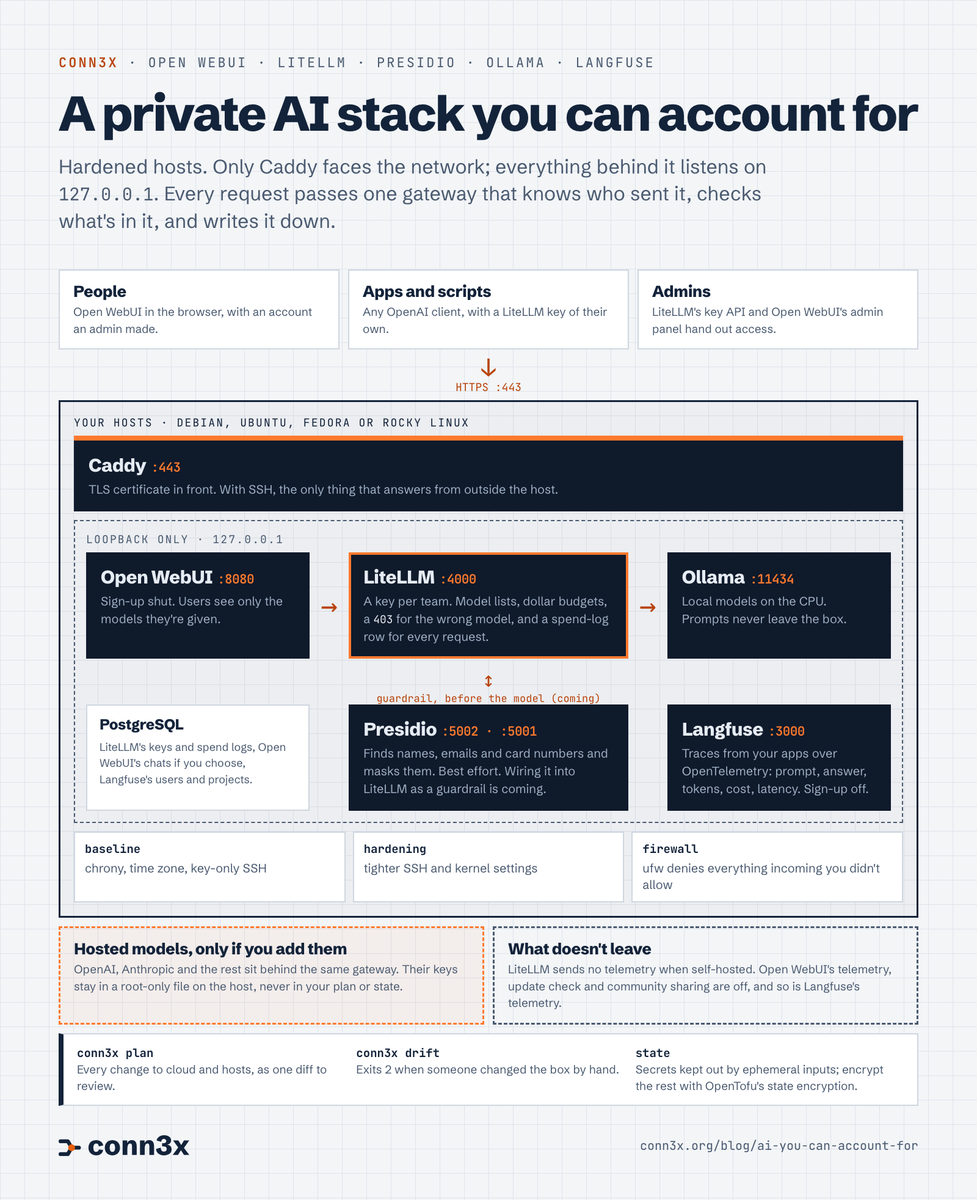
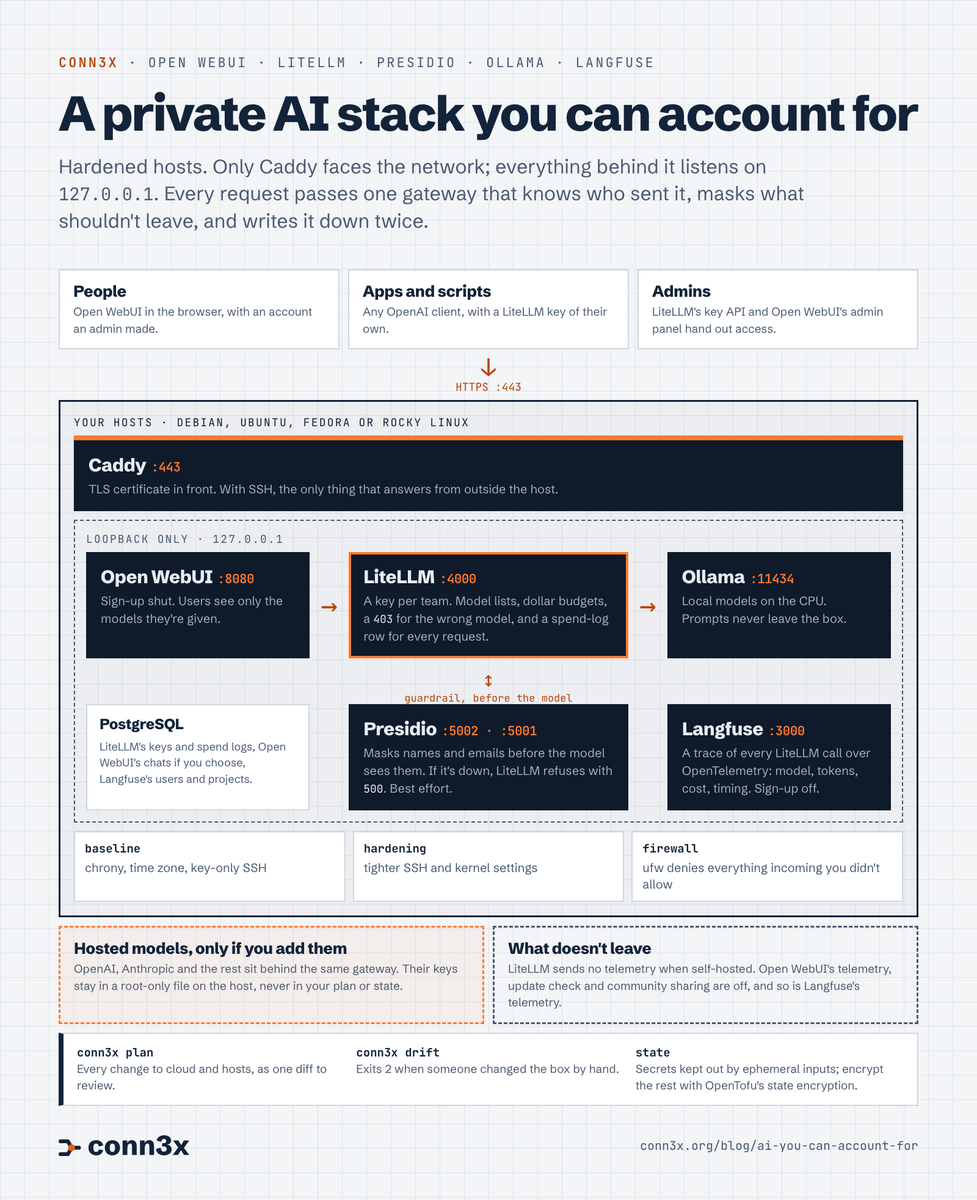
feat(blog): ship the Presidio guardrail and LiteLLM traces
circuit-litellm v0.2.0 adds guardrails and langfuse_url, both tested.
The series now describes them as shipped, exactly as far as the README
says: masking before the model and a 500 when Presidio is down, and a
trace per call in Langfuse with prompts redacted unless log_prompts is
on. post_call, output_parse_pii and BLOCK stay marked untested.

Examples pin circuit-litellm to v0.2.0, the Presidio and Langfuse posts
gain the README's guardrail and tracing examples, and the map, stack,
gateway, scrub and trace diagrams are re-rendered.

diff --git a/scripts/post-graphics/an-audit-trail-for-every-prompt/trace.html b/scripts/post-graphics/an-audit-trail-for-every-prompt/trace.html
@@ -32,10 +32,11 @@
 <div class="page">
   <span class="label"><b>CONN3X</b> · CIRCUIT-LANGFUSE</span>
   <h1>An audit trail for every prompt</h1>
-  <p class="lede">Langfuse 4 on one 4 GB host: the web server, a worker, ClickHouse for traces and MinIO for raw events, each a systemd service, all on loopback. Your apps send traces over OpenTelemetry.</p>
+  <p class="lede">Langfuse 4 on one 4 GB host: the web server, a worker, ClickHouse for traces and MinIO for raw events, each a systemd service, all on loopback. The LiteLLM gateway and your apps send traces over OpenTelemetry.</p>
 
   <div class="map">
     <div class="apps">
+      <div class="box"><span class="k">THE GATEWAY</span><h2 style="font-size: 26px;">LiteLLM</h2><p><code>langfuse_url</code>: a trace of every call. Prompts read <code>redacted-by-litellm</code> unless you keep them.</p></div>
       <div class="box"><span class="k">YOUR APPS</span><h2 style="font-size: 26px;">Langfuse SDKs</h2><p>Python or JavaScript, with the project's <code>pk-lf-</code> and <code>sk-lf-</code> keys.</p></div>
       <div class="box"><span class="k">YOUR PEOPLE</span><h2 style="font-size: 26px;">The web UI</h2><p>Through Caddy. Sign-up off; the owner invites everyone else.</p></div>
     </div>
@@ -71,13 +72,13 @@
   </div>
 
   <div class="note">
-    <div class="box"><span class="k">KNOW THIS</span><h2>It keeps the prompts</h2><p>That's the point of a trace, and it's also a store of everything anyone typed. Decide who can sign in.</p></div>
+    <div class="box"><span class="k">KNOW THIS</span><h2>It can keep the prompts</h2><p>That's the point of a trace, and it's also a store of everything anyone typed. Decide who can sign in.</p></div>
     <div class="box"><span class="k">KNOW THIS TOO</span><h2>minio/minio is archived</h2><p>Upstream stopped in April 2026. This runs Chainguard's AGPL fork, pinned by digest.</p></div>
   </div>
 
   <div class="key">
     <h3>Tested</h3>
-    <p>On 4 GB droplets with Ubuntu, Debian, Rocky Linux and Fedora: sign-up refused, a trace over OTLP readable within three seconds, a wrong secret key a <code>401</code>, and the trace still there after a reboot.</p>
+    <p>On 4 GB droplets with Ubuntu, Debian, Rocky Linux and Fedora: sign-up refused, a trace over OTLP readable within three seconds, a wrong secret key a <code>401</code>, the trace still there after a reboot. LiteLLM's calls arrived as generations within seconds.</p>
   </div>
   <div class="bottom">
     <img src="../../../apps/site/src/brand/logo.svg" alt="">

diff --git a/scripts/post-graphics/ai-you-can-account-for/stack.html b/scripts/post-graphics/ai-you-can-account-for/stack.html
@@ -39,7 +39,7 @@
 <div class="page">
   <span class="label"><b>CONN3X</b> · OPEN WEBUI · LITELLM · PRESIDIO · OLLAMA · LANGFUSE</span>
   <h1>A private AI stack you can account for</h1>
-  <p class="lede">Hardened hosts. Only Caddy faces the network; everything behind it listens on <code>127.0.0.1</code>. Every request passes one gateway that knows who sent it, checks what's in it, and writes it down.</p>
+  <p class="lede">Hardened hosts. Only Caddy faces the network; everything behind it listens on <code>127.0.0.1</code>. Every request passes one gateway that knows who sent it, masks what shouldn't leave, and writes it down twice.</p>
 
   <div class="users">
     <div class="box"><h2>People</h2><p>Open WebUI in the browser, with an account an admin made.</p></div>
@@ -62,14 +62,14 @@
         <div class="dark"><h3>Ollama<span>:11434</span></h3><p>Local models on the CPU. Prompts never leave the box.</p></div>
       </div>
       <div class="side">
-        <div class="up"><span class="arrow">↕</span>guardrail, before the model (coming)</div>
+        <div class="up"><span class="arrow">↕</span>guardrail, before the model</div>
       </div>
       <div class="row2">
         <div class="stack-col"><div class="box" style="padding: 16px 20px;"><h2 style="font-size: 24px;">PostgreSQL</h2><p style="font-size: 18px;">LiteLLM's keys and spend logs, Open WebUI's chats if you choose, Langfuse's users and projects.</p></div></div>
         <div></div>
-        <div class="dark"><h3>Presidio<span>:5002 · :5001</span></h3><p>Finds names, emails and card numbers and masks them. Best effort. Wiring it into LiteLLM as a guardrail is coming.</p></div>
+        <div class="dark"><h3>Presidio<span>:5002 · :5001</span></h3><p>Masks names and emails before the model sees them. If it's down, LiteLLM refuses with <code>500</code>. Best effort.</p></div>
         <div></div>
-        <div class="dark"><h3>Langfuse<span>:3000</span></h3><p>Traces from your apps over OpenTelemetry: prompt, answer, tokens, cost, latency. Sign-up off.</p></div>
+        <div class="dark"><h3>Langfuse<span>:3000</span></h3><p>A trace of every LiteLLM call over OpenTelemetry: model, tokens, cost, timing. Sign-up off.</p></div>
       </div>
     </div>
 

diff --git a/scripts/post-graphics/ai-you-can-account-for/map.html b/scripts/post-graphics/ai-you-can-account-for/map.html
@@ -56,7 +56,7 @@
       <div class="ask">"Who asked, which model answered, and what did it cost?"</div>
       <div class="ans"><ul>
         <li><b>circuit-litellm</b> a spend-log row per request, prompts left out by default <span class="pill tested">TESTED</span></li>
-        <li><b>circuit-langfuse</b> every prompt, answer, cost and latency, as traces on your host <span class="pill tested">TESTED</span></li>
+        <li><b>circuit-langfuse</b> a trace of every gateway call, with <code>langfuse_url</code> <span class="pill tested">TESTED</span></li>
       </ul></div>
     </div>
 
@@ -65,7 +65,7 @@
       <div class="ask">"What stops a customer's details reaching a model?"</div>
       <div class="ans"><ul>
         <li><b>circuit-presidio</b> finds and masks names, emails, cards; best effort, not a guarantee <span class="pill tested">TESTED</span></li>
-        <li><b>LiteLLM guardrail</b> Presidio on every request through the gateway <span class="pill coming">COMING</span></li>
+        <li><b>circuit-litellm guardrails</b> Presidio masks every request before the model; a 500 if it's down <span class="pill tested">TESTED</span></li>
       </ul></div>
     </div>
 
@@ -91,7 +91,6 @@
 
   <div class="legend">
     <span><span class="pill tested">TESTED</span>the circuit's README says how</span>
-    <span><span class="pill coming">COMING</span>not shipped yet</span>
   </div>
 
   <div class="key">

diff --git a/scripts/post-graphics/one-gateway-for-every-model/gateway.html b/scripts/post-graphics/one-gateway-for-every-model/gateway.html
@@ -54,8 +54,9 @@
         <li data-n="1">Is the key real? The master key stays on the host and only makes keys.</li>
         <li data-n="2">Is the model on the key's list? If not, <code>403</code>.</li>
         <li data-n="3">Is there budget left? US dollars, reset by <code>budget_duration</code>.</li>
-        <li data-n="4">Send it on, with the provider key from a root-only file.</li>
-        <li data-n="5">Write a spend-log row to PostgreSQL. Prompts stay out unless <code>log_prompts = true</code>.</li>
+        <li data-n="4">With <code>guardrails</code>, mask names and emails through Presidio. Presidio down? <code>500</code>.</li>
+        <li data-n="5">Send it on, with the provider key from a root-only file.</li>
+        <li data-n="6">Write a spend-log row to PostgreSQL, and with <code>langfuse_url</code>, a trace to Langfuse. Prompts stay out unless <code>log_prompts = true</code>.</li>
       </ul>
     </div>
     <div class="wire"><span class="arrow">→</span></div>

diff --git a/scripts/post-graphics/scrub-it-before-the-model-sees-it/scrub.html b/scripts/post-graphics/scrub-it-before-the-model-sees-it/scrub.html
@@ -51,7 +51,7 @@
 
   <div class="where">
     <div class="dark"><h3>What it knows out of the box</h3><p>English, with spaCy's large model for names and places, and patterns and checksums for emails, phones and cards.</p></div>
-    <div class="dark soon" style="border-color: var(--rust);"><h3>On every LiteLLM request<span class="pill coming">COMING</span></h3><p>LiteLLM has a Presidio guardrail. circuit-litellm needs an input for it first.</p></div>
+    <div class="dark"><h3>On every LiteLLM request<span>v0.2.0</span></h3><p>circuit-litellm's <code>guardrails</code> masks before the model. Presidio down? LiteLLM refuses with <code>500</code>.</p></div>
   </div>
 
   <div class="warn">

diff --git a/apps/site/src/content/blog/ai-you-can-account-for.md b/apps/site/src/content/blog/ai-you-can-account-for.md
@@ -24,7 +24,7 @@ None of them tells you to install anything. They're about risk, roles, policies 
 
 <figure>
   <a href="/media/blog/ai-you-can-account-for/map.png">
-    <img src="/media/blog/ai-you-can-account-for/map.png" width="1600" height="1868" loading="lazy" decoding="async" alt="Six questions, and what answers them. Data residency: circuit-ollama and circuit-openwebui. Access and budgets: circuit-litellm and circuit-openwebui. Audit trail: circuit-litellm and circuit-langfuse. Personal data: circuit-presidio, with the LiteLLM guardrail coming. Change evidence: conn3x plan, conn3x drift, pinned images and state encryption. Host hardening: baseline, hardening and firewall circuits, and circuit-caddy." />
+    <img src="/media/blog/ai-you-can-account-for/map.png" width="1600" height="1868" loading="lazy" decoding="async" alt="Six questions, and what answers them. Data residency: circuit-ollama and circuit-openwebui. Access and budgets: circuit-litellm and circuit-openwebui. Audit trail: circuit-litellm and circuit-langfuse. Personal data: circuit-presidio, also as a LiteLLM guardrail. Change evidence: conn3x plan, conn3x drift, pinned images and state encryption. Host hardening: baseline, hardening and firewall circuits, and circuit-caddy." />
   </a>
   <figcaption>Green means the circuit's README says how it was tested. Orange means it isn't shipped yet.</figcaption>
 </figure>
@@ -34,8 +34,8 @@ None of them tells you to install anything. They're about risk, roles, policies 
 
 1. **Data residency.** "Where do the prompts go, and who else sees them?" circuit-ollama runs models on your host with its API on `127.0.0.1`. circuit-openwebui turns off telemetry and sharing, and has no OpenAI connection unless you add one.
 2. **Access and budgets.** "Who can use which model, and how much can they spend?" circuit-litellm gives each team or person a key, a list of models and a budget in dollars; asking for a model outside the list gets a `403`. circuit-openwebui keeps sign-up shut and shows users only the models an admin gives them.
-3. **Audit trail.** "Who asked, which model answered, and what did it cost?" circuit-litellm writes a spend-log row for every request, with the prompt left out by default. circuit-langfuse keeps every prompt, answer, token count, cost and latency your apps send it, as traces on your own host.
-4. **Personal data.** "What stops a customer's details reaching a model?" circuit-presidio finds and masks names, emails and card numbers, on a best-effort basis. Running it on every request through LiteLLM is coming, not shipped.
+3. **Audit trail.** "Who asked, which model answered, and what did it cost?" circuit-litellm writes a spend-log row for every request, with the prompt left out by default, and with `langfuse_url` it sends a trace of every call to circuit-langfuse on your own host.
+4. **Personal data.** "What stops a customer's details reaching a model?" circuit-presidio finds and masks names, emails and card numbers, on a best-effort basis. Set as a guardrail in circuit-litellm, it masks every request through the gateway before the model sees it.
 5. **Change evidence.** "What changed, when, and is it still true today?" `conn3x plan` shows every change as a diff, `conn3x drift` exits 2 when someone changed something by hand, images are pinned by tag and digest, and OpenTofu's state encryption works as it does there.
 6. **Host hardening.** "Is the machine underneath locked down?" circuit-baseline, circuit-hardening and circuit-firewall leave key-only SSH and nothing else open. circuit-caddy puts TLS in front, so the services stay on loopback.
 
@@ -47,9 +47,9 @@ None of them tells you to install anything. They're about risk, roles, policies 
 
 **Who can use what?** [circuit-litellm](https://github.com/conn3xorg/circuit-litellm) puts one gateway in front of every model, local or hosted. Each team gets its own key, its own model list and a budget in US dollars. In testing, a key made for one model got a `403` for the other, and a request for a budget over the limit got a `400`. Provider keys stay on the host, so when someone leaves, you delete their key instead of rotating the real one.
 
-**Who asked, and what did it cost?** LiteLLM writes a row for every request: which key and team, which model, when, how many tokens, what it cost, and whether it worked. Refused requests are logged too. What it leaves out, by default, is the conversation. That's a choice you can flip, and next week's post is about making it on purpose. When you do want the conversation kept, [circuit-langfuse](https://github.com/conn3xorg/circuit-langfuse) runs Langfuse on your own host: your apps send it traces over OpenTelemetry, and every prompt, answer, cost and latency lands somewhere you can search and nobody else can read.
+**Who asked, and what did it cost?** LiteLLM writes a row for every request: which key and team, which model, when, how many tokens, what it cost, and whether it worked. Refused requests are logged too. What it leaves out, by default, is the conversation. That's a choice you can flip, and next week's post is about making it on purpose. For more than a row, [circuit-langfuse](https://github.com/conn3xorg/circuit-langfuse) runs Langfuse on your own host, and one input in circuit-litellm sends it a trace of every call through the gateway: model, tokens, cost and timing, and the masked prompt too if you choose to keep it.
 
-**What stops personal data reaching the model?** [circuit-presidio](https://github.com/conn3xorg/circuit-presidio) runs Presidio, the open-source PII detector first built at Microsoft, as two small services on loopback. It finds names, email addresses, phone numbers and card numbers and swaps them for placeholders. It's best effort, and its maintainers say so before we do. Running it on every request through LiteLLM needs a setting circuit-litellm doesn't have yet; that's next.
+**What stops personal data reaching the model?** [circuit-presidio](https://github.com/conn3xorg/circuit-presidio) runs Presidio, the open-source PII detector first built at Microsoft, as two small services on loopback. It finds names, email addresses, phone numbers and card numbers and swaps them for placeholders. It's best effort, and its maintainers say so before we do. Since circuit-litellm v0.2.0 it can sit inside the gateway as a guardrail: in testing, a prompt with a name and an email address arrived upstream as `My name is <PERSON> and my email is <EMAIL_ADDRESS>`, and with Presidio stopped, LiteLLM refused the request with a `500` rather than send it unmasked.
 
 **What changed, and is it still true?** This one's Conn3x itself. Every change goes through `conn3x plan` first, so bumping LiteLLM to a new release shows up as a new image digest in a unit file, in a diff someone can review. `conn3x drift` reads every host again on a schedule and [exits 2](/blog/catch-the-3am-fix) when something was changed by hand. And the secrets stay out of the record: provider keys, database passwords and admin passwords reach the hosts through ephemeral inputs and never touch your plan, your state or your CI logs. For the rest of the state, OpenTofu's [state encryption](https://opentofu.org/docs/language/state/encryption/) works in Conn3x as it does there.
 
@@ -61,9 +61,9 @@ Put together, it looks like this. One door, one gateway every request goes throu
 
 <figure>
   <a href="/media/blog/ai-you-can-account-for/stack.png">
-    <img src="/media/blog/ai-you-can-account-for/stack.png" width="1600" height="1964" loading="lazy" decoding="async" alt="A private AI stack you can account for. People, apps and admins reach one hardened host over HTTPS through Caddy. Behind it, on 127.0.0.1 only, Open WebUI talks to LiteLLM, which talks to Ollama. Presidio sits beside LiteLLM as a guardrail, marked coming, and Langfuse keeps traces.  PostgreSQL keeps LiteLLM's keys and spend logs. Baseline, hardening and firewall circuits lock down the host. Hosted models sit behind the same gateway only if you add them." />
+    <img src="/media/blog/ai-you-can-account-for/stack.png" width="1600" height="1965" loading="lazy" decoding="async" alt="A private AI stack you can account for. People, apps and admins reach one hardened host over HTTPS through Caddy. Behind it, on 127.0.0.1 only, Open WebUI talks to LiteLLM, which talks to Ollama. Presidio masks personal data as LiteLLM's guardrail before the model, and LiteLLM sends a trace of every call to Langfuse. PostgreSQL keeps LiteLLM's keys and spend logs. Baseline, hardening and firewall circuits lock down the host. Hosted models sit behind the same gateway only if you add them." />
   </a>
-  <figcaption>The guardrail link is the one piece not shipped yet. Everything else is a circuit you can apply today.</figcaption>
+  <figcaption>Every box is a circuit you can apply today.</figcaption>
 </figure>
 
 <details>
@@ -72,8 +72,8 @@ Put together, it looks like this. One door, one gateway every request goes throu
 - **Who comes in:** people through Open WebUI in a browser, apps and scripts with a LiteLLM key of their own, and admins handing out access through LiteLLM's key API and Open WebUI's admin panel. All of it over HTTPS on port 443.
 - **The hosts:** Debian, Ubuntu, Fedora or Rocky Linux. Caddy holds the certificate and, with SSH, is the only thing that answers from outside.
 - **On loopback only:** Open WebUI on `:8080` talks to LiteLLM on `:4000`, which talks to Ollama on `:11434`. LiteLLM checks the key, the model list and the budget, and writes a spend-log row for every request. PostgreSQL keeps LiteLLM's keys and spend logs, Open WebUI's chats if you choose, and Langfuse's users and projects.
-- **Tracing:** Langfuse on `:3000` takes traces from your apps over OpenTelemetry, with the prompt, answer, tokens, cost and latency of each call. Sign-up is off.
-- **Coming:** Presidio on `:5002` and `:5001` as a guardrail that LiteLLM calls before the model.
+- **Guardrail:** LiteLLM sends every request to Presidio on `:5002` and `:5001` first, and the model gets the masked text. If Presidio is down, the request fails with a `500`.
+- **Tracing:** LiteLLM sends a trace of every call to Langfuse on `:3000` over OpenTelemetry, and your apps can send their own. Sign-up is off.
 - **Underneath:** circuit-baseline, circuit-hardening and circuit-firewall.
 - **Leaving the box:** only prompts to hosted models you add yourself, through the same gateway. Their keys stay in a root-only file on the host. LiteLLM sends no telemetry when self-hosted. Open WebUI's telemetry, update check and community sharing are off, and so is Langfuse's telemetry.
 - **Around all of it:** `conn3x plan` for every change, `conn3x drift` for hand edits, and state encryption for what's in state.
@@ -110,7 +110,7 @@ It doesn't make you compliant. No circuit is certified against NIST's framework,
 
 It doesn't decide which rules apply to you. That depends on what your system does, where your users are and what role you play, and it's a question for someone who reads regulations for a living.
 
-And one piece isn't here yet. Running Presidio on every request through LiteLLM needs an input circuit-litellm doesn't have yet. It's marked in the diagrams, and it isn't in any post as if it worked. Nor is sending LiteLLM's requests to Langfuse: your apps can send traces today, but we haven't tested the gateway doing it for them.
+And it doesn't promise more than was tested. The Presidio guardrail was tested masking what goes to the model; checking the model's answers too (`post_call`), or putting the original values back into them (`output_parse_pii`), hasn't been tested. And Presidio is best effort however it's wired in.
 
 ## The rest of the series
 

diff --git a/apps/site/src/content/blog/an-audit-trail-for-every-prompt.md b/apps/site/src/content/blog/an-audit-trail-for-every-prompt.md
@@ -16,7 +16,7 @@ That's tracing, and [Langfuse](https://langfuse.com) is the open-source platform
 
 <figure>
   <a href="/media/blog/an-audit-trail-for-every-prompt/trace.png">
-    <img src="/media/blog/an-audit-trail-for-every-prompt/trace.png" width="1600" height="1818" loading="lazy" decoding="async" alt="An audit trail for every prompt. Your apps send traces with Langfuse's SDKs over OpenTelemetry, and your people use the web UI through Caddy. On one 4 GB host, on loopback only, langfuse-web on port 3000, langfuse-worker, ClickHouse and MinIO run as systemd services, with PostgreSQL and Valkey beside them. Keys are made on the host by the first apply. A trace holds the prompt, response, tokens, cost and latency." />
+    <img src="/media/blog/an-audit-trail-for-every-prompt/trace.png" width="1600" height="1939" loading="lazy" decoding="async" alt="An audit trail for every prompt. The LiteLLM gateway sends a trace of every call, your apps send traces with Langfuse's SDKs over OpenTelemetry, and your people use the web UI through Caddy. On one 4 GB host, on loopback only, langfuse-web on port 3000, langfuse-worker, ClickHouse and MinIO run as systemd services, with PostgreSQL and Valkey beside them. Keys are made on the host by the first apply. A trace holds the prompt, response, tokens, cost and latency." />
   </a>
   <figcaption>Four services from the circuit, two you bring, and every key made on the host.</figcaption>
 </figure>
@@ -24,12 +24,12 @@ That's tracing, and [Langfuse](https://langfuse.com) is the open-source platform
 <details>
 <summary>Read the diagram as text</summary>
 
-- **Coming in:** your apps, with Langfuse's Python or JavaScript SDKs and the project's `pk-lf-` and `sk-lf-` keys, send traces over OpenTelemetry. Your people use the web UI through Caddy; sign-up is off and the owner invites everyone else.
+- **Coming in:** the LiteLLM gateway, with `langfuse_url`, sends a trace of every call. Your apps, with Langfuse's Python or JavaScript SDKs and the project's `pk-lf-` and `sk-lf-` keys, send traces over OpenTelemetry. Your people use the web UI through Caddy; sign-up is off and the owner invites everyone else.
 - **On one 4 GB host, loopback only:** `langfuse-web` on `:3000` takes traces and serves the UI, with telemetry off. `langfuse-worker` on `:3030` moves queued events into ClickHouse. ClickHouse 26.8 LTS on `:8123` and `:9000` holds the traces. MinIO on `:9002`, Chainguard's build of the open-source server, holds raw events.
 - **You bring:** PostgreSQL for users, projects and keys (circuit-postgres), and Valkey for the queue, with `noeviction` (circuit-valkey).
 - **Keys:** `/etc/langfuse/keys.env` holds `NEXTAUTH_SECRET`, `SALT`, `ENCRYPTION_KEY` and the ClickHouse and MinIO passwords, made on the host by the first apply and never in your plan or state. Back it up.
 - **A trace holds:** the prompt, the response, tokens, cost and latency.
-- **Know this:** it keeps the prompts, which is the point and also a store of everything anyone typed. And the upstream `minio/minio` repository was archived in April 2026; this runs Chainguard's AGPL fork, pinned by digest.
+- **Know this:** it can keep the prompts, which is the point and also a store of everything anyone typed. And the upstream `minio/minio` repository was archived in April 2026; this runs Chainguard's AGPL fork, pinned by digest.
 - **Tested:** on 4 GB droplets with Ubuntu, Debian, Rocky Linux and Fedora, sign-up was refused, a trace over OTLP was readable within three seconds, a wrong secret key got a `401`, and the trace was still there after a reboot.
 
 </details>
@@ -138,11 +138,29 @@ That's also why the README opens with a warning worth repeating. Back up `/etc/l
 
 Langfuse 4 takes traces over OpenTelemetry at `/api/public/otel/v1/traces`, which the current Python and JavaScript SDKs use. One thing to know if you're moving an old integration: the older `/api/public/ingestion` endpoint and the v1 traces API refuse trace data on a new Langfuse 4 install. Langfuse has a [migration guide](https://langfuse.com/integrations/native/opentelemetry/migration-to-v4).
 
-What about the gateway from earlier in this series? Your apps can send traces today. Having LiteLLM send them for every request is the obvious next step, and it's one we haven't tested, so it isn't in this post as if it worked.
+## Every gateway call, traced
+
+Your apps can send traces themselves. But if they already go through the [LiteLLM gateway](/blog/one-gateway-for-every-model), there's a shorter way: circuit-litellm v0.2.0 sends a trace of every call for them. From its [README](https://github.com/conn3xorg/circuit-litellm#traces-in-langfuse):
+
+```hcl
+module "litellm" {
+  # ...as above, and:
+  langfuse_url = "http://127.0.0.1:3000"
+  api_keys = {
+    OPENAI_API_KEY      = var.openai_api_key
+    LANGFUSE_PUBLIC_KEY = "pk-lf-gateway"
+    LANGFUSE_SECRET_KEY = var.langfuse_secret_key
+  }
+}
+```
+
+The project's keys go in `api_keys`, so they reach the host's env file and never the plan or state. LiteLLM sends OpenTelemetry, which is what Langfuse 4 takes; LiteLLM's older `langfuse` callback uses the ingestion API a new Langfuse 4 install refuses.
+
+What a trace holds follows LiteLLM's `log_prompts`. Off, the default, its input and output read `redacted-by-litellm`, with the model, tokens, cost and timing all there. On, they hold the prompt and the answer, and with the [Presidio guardrail](/blog/scrub-it-before-the-model-sees-it) in place, the prompt is the masked one: `<PERSON>`, not the name. We tested exactly that on an Ubuntu 24.04 droplet with 8 GB, running LiteLLM, Presidio and Langfuse together. Each request showed up in Langfuse as a generation within seconds, and the project keys weren't in the state.
 
 ## Two things to know before you start
 
-**It keeps the prompts.** That's the whole point of a trace, and it's the opposite of the choice the LiteLLM gateway makes by default. A Langfuse full of traces is also a searchable copy of everything anyone typed into your AI features, customer details included. Keep sign-up off, keep the invite list short, and if [Presidio](/blog/scrub-it-before-the-model-sees-it) is in your stack, think about what it should see before Langfuse does.
+**It can keep the prompts.** That's the whole point of a trace from your own SDK, and it's the opposite of the choice the LiteLLM gateway makes by default. A Langfuse full of traces is also a searchable copy of everything anyone typed into your AI features, customer details included. Keep sign-up off, keep the invite list short, and if [Presidio](/blog/scrub-it-before-the-model-sees-it) is in your stack, think about what it should see before Langfuse does.
 
 **About MinIO.** Langfuse's own Docker Compose file runs MinIO as its S3 store, from Chainguard's image, and so does this circuit. You should know that the upstream `minio/minio` repository was archived in April 2026 and says it's no longer maintained. Chainguard keeps building the open-source server from its own fork, under the AGPL v3, and that's what runs here, pinned by digest. Langfuse also documents SeaweedFS; the circuit doesn't offer it yet.
 
@@ -164,7 +182,6 @@ Rocky turned up one surprise worth passing on: its cloud image runs Cockpit on p
 - **No direct media uploads.** MinIO stays on loopback, so tracing works, but SDKs that upload images, audio or files straight to the store need it reachable from outside. That's not supported yet.
 - **No backups.** PostgreSQL, the ClickHouse and MinIO volumes, and `keys.env` all matter; see [circuit-restic](https://github.com/conn3xorg/circuit-restic).
 - **No licensed extras.** Langfuse's add-on features that need a licence key, and an LLM for evaluations, are yours to add through `environment`.
-- **No LiteLLM wiring yet.** As above: apps send traces, the gateway doesn't, until we've tested it.
 - **Upgrades are untested.** Moving from one `langfuse_version` to the next hasn't been tried yet.
 
 ## Try it, and that's the series

diff --git a/apps/site/src/content/blog/scrub-it-before-the-model-sees-it.md b/apps/site/src/content/blog/scrub-it-before-the-model-sees-it.md
@@ -24,7 +24,7 @@ A layer is still worth having. It just has to be one of the things standing betw
 
 <figure>
   <a href="/media/blog/scrub-it-before-the-model-sees-it/scrub.png">
-    <img src="/media/blog/scrub-it-before-the-model-sees-it/scrub.png" width="1600" height="1688" loading="lazy" decoding="async" alt="Scrub it before the model sees it. Step 1, the prompt: My name is David Johnson and my email is david@example.com. Step 2, the analyzer on 127.0.0.1:5002 finds PERSON from 11 to 24 and EMAIL_ADDRESS from 41 to 58. Step 3, the anonymizer on 127.0.0.1:5001 returns My name is <PERSON> and my email is <EMAIL_ADDRESS>. Custom recognizers add a deny list and a pattern. Running it on every LiteLLM request is marked coming. A warning quotes Presidio's maintainers: there is no guarantee it will find all sensitive information." />
+    <img src="/media/blog/scrub-it-before-the-model-sees-it/scrub.png" width="1600" height="1679" loading="lazy" decoding="async" alt="Scrub it before the model sees it. Step 1, the prompt: My name is David Johnson and my email is david@example.com. Step 2, the analyzer on 127.0.0.1:5002 finds PERSON from 11 to 24 and EMAIL_ADDRESS from 41 to 58. Step 3, the anonymizer on 127.0.0.1:5001 returns My name is <PERSON> and my email is <EMAIL_ADDRESS>. Custom recognizers add a deny list and a pattern. In circuit-litellm, it masks every request through the gateway. A warning quotes Presidio's maintainers: there is no guarantee it will find all sensitive information." />
   </a>
   <figcaption>The same sentence CI checks on all four distributions.</figcaption>
 </figure>
@@ -39,7 +39,7 @@ A layer is still worth having. It just has to be one of the things standing betw
 - **Your own words:** a deny list in `analyzer_config` finds exact words, such as the code names `Bluebird` and `Quillfeather`, as `PROJECT_CODENAME`.
 - **Your own formats:** a pattern finds anything a regular expression can describe, such as `\bEMP-\d{6}\b`, as `EMPLOYEE_ID`.
 - **Out of the box:** English, with spaCy's large model for names and places, and patterns and checksums for emails, phone numbers and cards.
-- **Coming:** running it on every request through LiteLLM, which needs an input circuit-litellm doesn't have yet.
+- **In the gateway:** circuit-litellm's `guardrails` input runs it on every request before the model; if Presidio is down, the request fails with a `500`.
 - **Best effort:** in its maintainers' words, "there is no guarantee that Presidio will find all sensitive information".
 
 </details>
@@ -125,9 +125,45 @@ One thing catches people out. A `recognizer_registry` section replaces the built
 
 ## Where it belongs
 
-Calling Presidio by hand is fine for a script. Where it really earns its keep is in the path every prompt already takes, and in this series that's the [LiteLLM gateway](/blog/one-gateway-for-every-model). LiteLLM has a Presidio guardrail built in: every request goes to the analyzer first, and what it finds is masked, or the request refused, before anything reaches the model. Anything that talks to LiteLLM, Open WebUI included, would get the same masking.
+Calling Presidio by hand is fine for a script. Where it really earns its keep is in the path every prompt already takes, and in this series that's the [LiteLLM gateway](/blog/one-gateway-for-every-model). LiteLLM has a Presidio guardrail built in: every request goes to the analyzer first, and what it finds is masked, or the request refused, before anything reaches the model. Anything that talks to LiteLLM, Open WebUI included, gets the same masking.
 
-We'd like to tell you that's one apply away. It isn't yet. circuit-litellm v0.1.0 writes LiteLLM's `config.yaml` itself and has no input for the guardrails section, so the pairing the Presidio README describes needs a new release of circuit-litellm first. We haven't tested the two together, and we won't call it done until we have.
+Since v0.2.0, circuit-litellm has a `guardrails` input for exactly this. With Presidio on the same host, both services are on loopback, where LiteLLM reaches them. From the [circuit-litellm README](https://github.com/conn3xorg/circuit-litellm#masking-pii-with-presidio):
+
+```hcl
+module "presidio" {
+  source = "github.com/conn3xorg/circuit-presidio?ref=v0.1.0"
+
+  hosts                = { gateway = "192.168.1.50" }
+  ssh_private_key_file = "~/.ssh/id_ed25519"
+}
+
+module "litellm" {
+  # ...as above, with module.presidio added to depends_on, and:
+  guardrails = [{
+    guardrail_name = "presidio-pii"
+    litellm_params = {
+      guardrail                    = "presidio"
+      mode                         = "pre_call"
+      default_on                   = true
+      presidio_analyzer_api_base   = "http://127.0.0.1:5002"
+      presidio_anonymizer_api_base = "http://127.0.0.1:5001"
+      presidio_language            = "en"
+      pii_entities_config = {
+        PERSON        = "MASK"
+        EMAIL_ADDRESS = "MASK"
+        PHONE_NUMBER  = "MASK"
+        CREDIT_CARD   = "BLOCK"
+      }
+    }
+  }]
+}
+```
+
+`default_on = true` runs it on every request, and `pre_call` checks what goes to the model. `MASK` swaps the text for a placeholder; `BLOCK` refuses the request. The code names and employee IDs you taught the analyzer go in the same map.
+
+Here's what we saw. In CI on all four distributions, and on a 4 GB Rocky Linux 10 droplet with SELinux enforcing, a message with a name and an email address reached the provider, a stand-in for the test, as `My name is <PERSON> and my email is <EMAIL_ADDRESS>`, and after a reboot it still did. Then we stopped the analyzer. LiteLLM answered `500`, and nothing reached the provider. When the guardrail can't check a prompt, the prompt doesn't go.
+
+Two things in LiteLLM's docs we haven't tested: checking the model's answer as well (`post_call`), and `output_parse_pii`, which puts the original values back into the answer. Nor have we tested `BLOCK` refusing a request; what was tested is masking.
 
 ## What we tested
 
@@ -140,7 +176,6 @@ By hand, on an Ubuntu 24.04 droplet and a Rocky Linux 10 droplet with SELinux en
 - **It doesn't guarantee anything.** See the top of this post. Then read it again before you write a policy that leans on it.
 - **No authentication.** Anyone who can reach Presidio's ports can send it text, so it stays on loopback, and every plan warns you if you set `listen_address` to anything else. For other hosts, put [circuit-caddy](https://github.com/conn3xorg/circuit-caddy) in front with a password; the README has the config.
 - **English only.** The image ships spaCy's English model and no other. Pattern recognizers don't need a model, so you can find Italian fiscal codes in English text. Names in German text need a German model, and this image doesn't have one.
-- **No guardrail wiring yet.** As above: the LiteLLM pairing needs circuit-litellm to grow an input first.
 - **Upgrades are untested.** Moving from one `presidio_version` to the next hasn't been tried yet.
 
 ## Try it

diff --git a/apps/site/src/content/blog/one-gateway-for-every-model.md b/apps/site/src/content/blog/one-gateway-for-every-model.md
@@ -16,7 +16,7 @@ This is the second post in a series on [running AI you can account for](/blog/ai
 
 <figure>
   <a href="/media/blog/one-gateway-for-every-model/gateway.png">
-    <img src="/media/blog/one-gateway-for-every-model/gateway.png" width="1600" height="1703" loading="lazy" decoding="async" alt="One gateway, every model. Team, personal and app keys go to LiteLLM on 127.0.0.1:4000, which checks the key, the model list and the budget, sends the request on with the provider key from a root-only file, and writes a spend-log row. Behind it sit gpt-4o, claude-sonnet and a local Ollama model. A spend-log table shows a successful claude-sonnet request and a gpt-4o request refused with 403, neither with the prompt stored." />
+    <img src="/media/blog/one-gateway-for-every-model/gateway.png" width="1600" height="1760" loading="lazy" decoding="async" alt="One gateway, every model. Team, personal and app keys go to LiteLLM on 127.0.0.1:4000, which checks the key, the model list and the budget, masks personal data through Presidio if you set guardrails, sends the request on with the provider key from a root-only file, and writes a spend-log row and, with langfuse_url, a Langfuse trace. Behind it sit gpt-4o, claude-sonnet and a local Ollama model. A spend-log table shows a successful claude-sonnet request and a gpt-4o request refused with 403, neither with the prompt stored." />
   </a>
   <figcaption>Every request takes the same path, and leaves the same kind of row behind.</figcaption>
 </figure>
@@ -25,7 +25,7 @@ This is the second post in a series on [running AI you can account for](/blog/ai
 <summary>Read the diagram as text</summary>
 
 - **Keys in:** a team key for `research`, limited to `claude-sonnet` with a budget of 50; a personal key, `alice-laptop`, on that team; and a key for an app such as Open WebUI, which uses `http://127.0.0.1:4000/v1` as its OpenAI base URL.
-- **LiteLLM on `127.0.0.1:4000`**, in order: checks the key is real (the master key stays on the host and only makes keys), checks the model is on the key's list and answers `403` if not, checks there's budget left in US dollars, sends the request on with the provider key from a root-only file, and writes a spend-log row to PostgreSQL, without the prompt unless `log_prompts = true`.
+- **LiteLLM on `127.0.0.1:4000`**, in order: checks the key is real (the master key stays on the host and only makes keys), checks the model is on the key's list and answers `403` if not, checks there's budget left in US dollars, masks names and emails through Presidio when `guardrails` is set (and answers `500` if Presidio is down), sends the request on with the provider key from a root-only file, and writes a spend-log row to PostgreSQL and, with `langfuse_url`, a trace to Langfuse, without the prompt unless `log_prompts = true`.
 - **Models out:** `gpt-4o` through OpenAI, `claude-sonnet` through Anthropic, and `local`, `qwen2.5:0.5b` in Ollama on `127.0.0.1:11434`, which never leaves the box.
 - **Spend log:** a successful `claude-sonnet` request with tokens counted and priced, and a `gpt-4o` request logged as a failure with `403`. Neither stores the prompt.
 - **Stays on the host:** `LITELLM_MASTER_KEY` and `LITELLM_SALT_KEY` in `/etc/litellm/keys.env`, and the provider keys in a root-only env file.
@@ -70,7 +70,7 @@ module "postgres" {
 }
 
 module "litellm" {
-  source = "github.com/conn3xorg/circuit-litellm?ref=v0.1.0"
+  source = "github.com/conn3xorg/circuit-litellm?ref=v0.2.0"
 
   depends_on = [module.postgres]
 
@@ -159,9 +159,17 @@ module "litellm" {
 
 We tried it on an Ubuntu 24.04 droplet with 4 GB of memory, with `smollm2:135m` as the local model. A team key limited to it got an answer through LiteLLM.
 
+## Masking and tracing
+
+Two inputs arrived in v0.2.0, and both are about knowing what went where. `guardrails` sends every request through [Presidio](https://github.com/conn3xorg/circuit-presidio) before a model sees it, so `My name is David Johnson` reaches the provider as `My name is <PERSON>`; if Presidio is down, the request fails with a `500` instead of going out unmasked. The post on Presidio, in two weeks, has the whole configuration.
+
+`langfuse_url` sends a trace of every call to a [Langfuse](https://github.com/conn3xorg/circuit-langfuse) you run, with the model, tokens, cost and timing. What the trace holds follows `log_prompts`: off, the input and output read `redacted-by-litellm`; on, they hold the prompt after any masking, and the answer.
+
 ## What we tested
 
 CI applies the example to Rocky Linux 10, Fedora 45, Ubuntu 24.04 and Debian 13, with PostgreSQL on the same host, and checks the second plan has no changes. Then it runs a stand-in for an OpenAI-compatible provider, so no real API key is involved, and checks the things this post leans on: a wrong master key can't make keys, a budget over `max_key_budget` is refused, a key made for one model can use it and gets a `403` for the other, and the request lands in the spend logs with a price and without its content. After a restart, the same key still works.
+
+Since v0.2.0, CI also checks that a message with a name and an email address reaches the stand-in masked by the Presidio guardrail. On a Rocky Linux 10 droplet, LiteLLM refused the request with a `500` when Presidio's analyzer was stopped. On an Ubuntu 24.04 droplet with 8 GB, beside Presidio and Langfuse, every request showed up in Langfuse within seconds, with model, tokens and cost.
 
 By hand, on a 2 GB Rocky Linux 10 droplet with SELinux enforcing and on the Ubuntu droplet above, port 4000 didn't answer from outside, LiteLLM came back on its own after each of two reboots, and the plan stayed clean.
 
@@ -171,7 +179,6 @@ By hand, on a 2 GB Rocky Linux 10 droplet with SELinux enforcing and on the Ubun
 - **No teams or keys for you.** The circuit sets defaults; making teams and keys is LiteLLM's API or its admin UI at `/ui`.
 - **No Redis.** One LiteLLM doesn't need it. Several behind a load balancer do, to share rate limits and budgets.
 - **No backups.** Back up PostgreSQL and `/etc/litellm/keys.env`, separately. Lose the salt key and LiteLLM can't read the provider credentials it stored in its database, and it must never change once you've added a model.
-- **No guardrails yet.** LiteLLM can run every request through Presidio before it reaches a model, but circuit-litellm v0.1.0 writes `config.yaml` itself and has no input for LiteLLM's guardrails section. That's on the list.
 - **Prices go stale.** The circuit prices requests from the list in the image, so nothing is fetched at start. A model newer than your `litellm_version` counts as free until you upgrade or give it prices yourself.
 - **Upgrades are untested.** Moving from one `litellm_version` to the next hasn't been tried yet.
 
